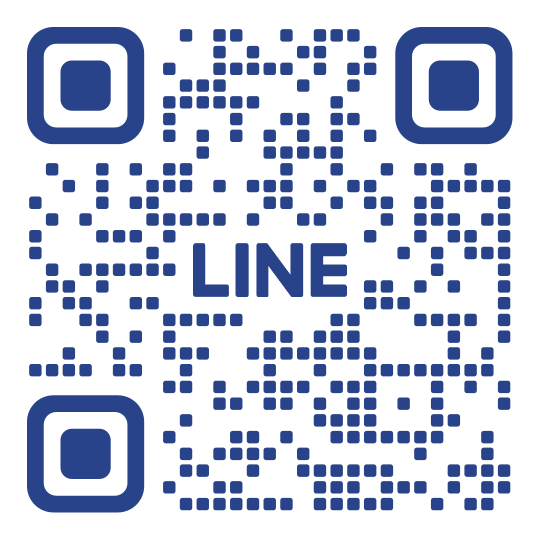
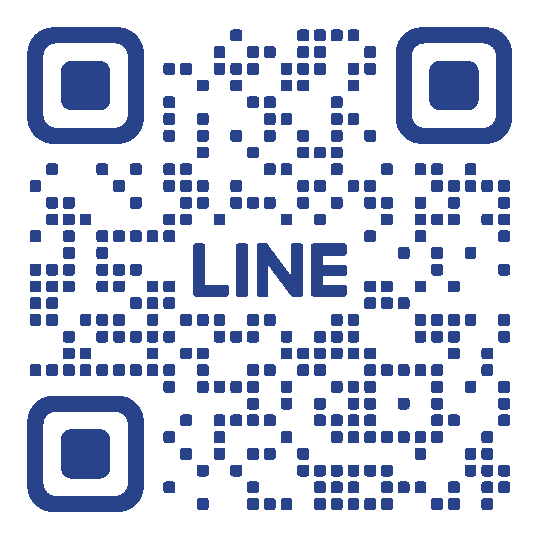
改回連結

diff --git a/js/results.js b/js/results.js
@@ -658,7 +658,7 @@ function pointToCoordinates(x, y, centerX, centerY, maxRadius) {
 function setupButtonEvents() {
     // 報告分析按鈕
     document.getElementById('analysis-btn').addEventListener('click', () => {
-        window.open('https://lin.ee/weKK5Dl', '_blank');
+        window.open('https://lin.ee/RaehHxl', '_blank');
     });
     
     // 下載報告按鈕
@@ -1072,7 +1072,7 @@ function generatePDF() {
         lineSection.style.cssText = 'margin-top:10px; padding:10px; background:linear-gradient(135deg, #e8f2ff 0%, #f0f7ff 100%); border-radius:8px; border:1px solid #4a6fa5; text-align:center;';
         
         const compactQrTitle = document.createElement('div');
-        compactQrTitle.innerHTML = '加入教練時刻官方LINE';
+        compactQrTitle.innerHTML = '加入JCoach官方LINE';
         compactQrTitle.style.cssText = 'font-size:14px; font-weight:bold; color:#4a6fa5; margin-bottom:8px;';
         lineSection.appendChild(compactQrTitle);
         
@@ -1089,7 +1089,7 @@ function generatePDF() {
         lineSection.appendChild(compactQrContainer);
         
         const compactLineLink = document.createElement('div');
-        compactLineLink.innerHTML = 'https://lin.ee/weKK5Dl';
+        compactLineLink.innerHTML = 'https://lin.ee/RaehHxl';
         compactLineLink.style.cssText = 'font-size:11px; color:#4a6fa5; font-weight:600; background-color:rgba(74, 111, 165, 0.1); padding:3px 6px; border-radius:4px; display:inline-block; margin-bottom:6px;';
         lineSection.appendChild(compactLineLink);
         
@@ -1191,7 +1191,7 @@ function generatePDF() {
         
         // QR上方標題
         const qrTitle = document.createElement('div');
-        qrTitle.innerHTML = '加入教練時刻官方LINE';
+        qrTitle.innerHTML = '加入JCoach官方LINE';
         qrTitle.style.cssText = 'font-size:18px; font-weight:bold; color:#4a6fa5; margin-bottom:12px; letter-spacing:0.5px;';
         lineInquirySection.appendChild(qrTitle);
         
@@ -1212,9 +1212,9 @@ function generatePDF() {
         
         // LINE連結
         const lineLink = document.createElement('a');
-        lineLink.href = 'https://lin.ee/weKK5Dl';
+        lineLink.href = 'https://lin.ee/RaehHxl';
         lineLink.target = '_blank';
-        lineLink.innerHTML = 'https://lin.ee/weKK5Dl';
+        lineLink.innerHTML = 'https://lin.ee/RaehHxl';
         lineLink.style.cssText = 'font-size:13px; color:#4a6fa5; text-decoration:underline; font-weight:600; display:inline-block; margin-top:8px; padding:4px 8px; border-radius:4px; background-color:rgba(74, 111, 165, 0.05); transition:background-color 0.2s ease;';
         lineInquirySection.appendChild(lineLink);
         

diff --git a/results.html b/results.html
@@ -642,9 +642,9 @@
             <div class="header-content">
                 <div class="logo-container">
                     <a href="https://coachmoments.com/" target="_blank">
-                        <img src="images/logo.png" alt="教練時刻 Logo" class="site-logo" 
+                        <img src="images/logo.png" alt="CoachMoments Logo" class="site-logo" 
                              onerror="this.style.display='none'; this.nextElementSibling.style.display='block';">
-                        <div class="logo-fallback">教練時刻</div>
+                        <div class="logo-fallback">CoachMoments</div>
                     </a>
                 </div>
                 <div class="site-title">
@@ -789,7 +789,7 @@
 
     <footer>
         <div class="container">
-            <p>&copy; 教練時刻 DISC行為風格測驗. 保留所有權利。</p>
+            <p>&copy; CoachMoments DISC行為風格測驗. 保留所有權利。</p>
         </div>
     </footer>
 

diff --git a/quiz.html b/quiz.html
@@ -73,9 +73,9 @@
             <div class="header-content">
                 <div class="logo-container">
                     <a href="https://coachmoments.com/" target="_blank">
-                        <img src="images/logo.png" alt="教練時刻 Logo" class="site-logo" 
+                        <img src="images/logo.png" alt="CoachMoments Logo" class="site-logo" 
                              onerror="this.style.display='none'; this.nextElementSibling.style.display='block';">
-                        <div class="logo-fallback">教練時刻</div>
+                        <div class="logo-fallback">CoachMoments</div>
                     </a>
                 </div>
                 <div class="site-title">
@@ -115,7 +115,7 @@
 
     <footer>
         <div class="container">
-            <p>&copy; 教練時刻 DISC行為風格測驗. 保留所有權利。</p>
+            <p>&copy; CoachMoments DISC行為風格測驗. 保留所有權利。</p>
         </div>
     </footer>
 

diff --git a/index.html b/index.html
@@ -16,9 +16,9 @@
             <div class="header-content">
                 <div class="logo-container">
                     <a href="https://coachmoments.com/" target="_blank">
-                        <img src="images/logo.png" alt="教練時刻 Logo" class="site-logo" 
+                        <img src="images/logo.png" alt="CoachMoments Logo" class="site-logo" 
                              onerror="this.style.display='none'; this.nextElementSibling.style.display='block';">
-                        <div class="logo-fallback">教練時刻</div>
+                        <div class="logo-fallback">CoachMoments</div>
                     </a>
                 </div>
                 <div class="site-title">
@@ -65,7 +65,7 @@
 
     <footer>
         <div class="container">
-            <p>&copy; 教練時刻 DISC行為風格測驗. 保留所有權利。</p>
+            <p>&copy; CoachMoments DISC行為風格測驗. 保留所有權利。</p>
         </div>
     </footer>
 
